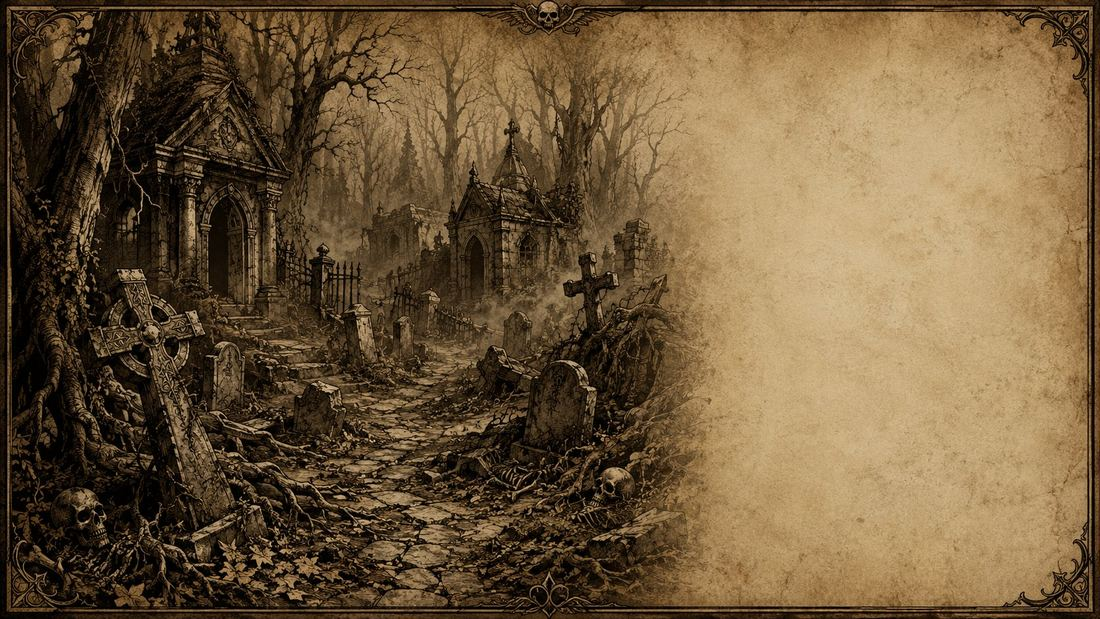
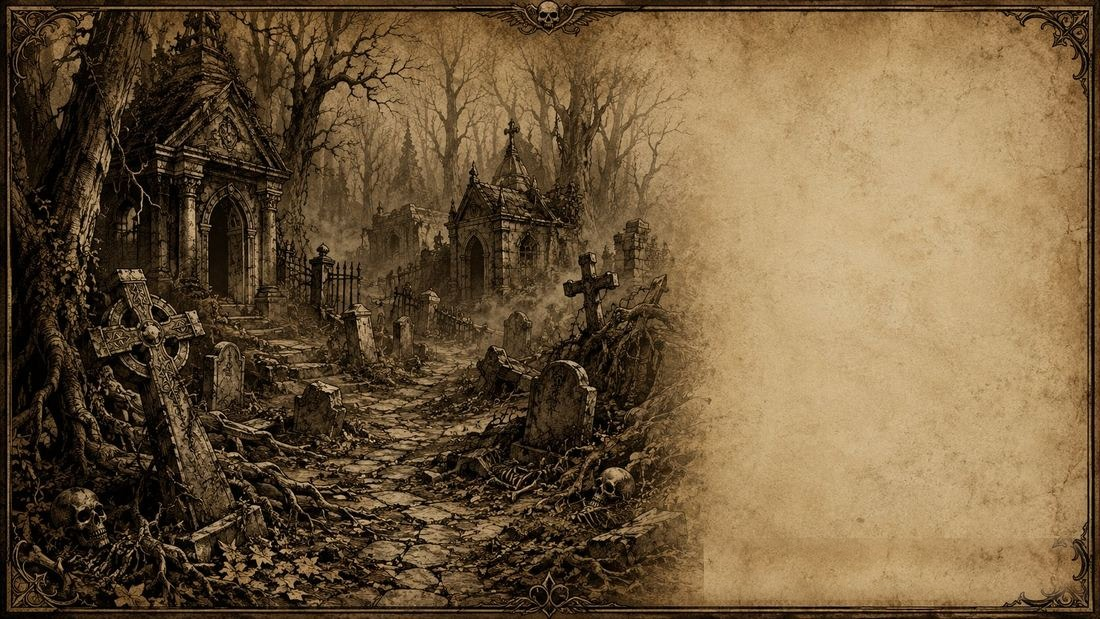
v0.14 — combate real (activación por rango), cámara y limpieza visual
- Fuera de combate: movimiento libre sin PA ni turnos; al detectarte un enemigo, empieza el combate por turnos
- Icono de combate persistente mientras dure la lucha
- Cámara con seguimiento al enemigo durante su turno
- Arreglado el fleco magenta residual del mapa
- Arreglada la transparencia del botón "Saltar turno"
- Vida del héroe más larga
- Cajas de enemigo reorganizadas (nombre más pequeño, fila de estado)
- Marca del evento de ambientación ya invisible en el suelo
- Arreglado el bamboleo del idle del esqueleto
- Arreglado el texto superpuesto en la carta de evento del cementerio

Changed region(s): [[0.6182, 0.8595, 1.0, 0.9822]]

diff --git a/js/ui.js b/js/ui.js
@@ -1,13 +1,13 @@
 // Capa DOM: HUD (con PA), cartas de evento, registro, fin de partida y ajustes.
 // Todo el texto visible pasa por t() (multiidioma). No dibuja en el canvas.
 
-import { state } from './state.js?v=0.13.2';
-import { t } from './i18n.js?v=0.13.2';
-import * as anim from './anim.js?v=0.13.2';
-import { IDLE_NAME } from './anim.js?v=0.13.2';
-import * as audio from './audio.js?v=0.13.2';
-import { VERSION } from './config.js?v=0.13.2';
-import { images, SPRITE_TILE } from './assets.js?v=0.13.2';
+import { state } from './state.js?v=0.14';
+import { t } from './i18n.js?v=0.14';
+import * as anim from './anim.js?v=0.14';
+import { IDLE_NAME } from './anim.js?v=0.14';
+import * as audio from './audio.js?v=0.14';
+import { VERSION } from './config.js?v=0.14';
+import { images, SPRITE_TILE } from './assets.js?v=0.14';
 
 let afterInteract = () => {};
 let restart = () => {};
@@ -29,8 +29,11 @@ export function syncHUD() {
   hpText.textContent = `${Math.max(0, hero.hp)}/${hero.maxHp}`;
   hpText.style.color = pct < 0.25 ? '#e86a5c' : '#fff';
   $('gold').textContent = hero.gold;
-  // Puntos de acción: pips llenos/vacíos.
+  // Puntos de acción: pips llenos/vacíos. Fuera de combate no hay turnos que
+  // saltar ni PA que gastar (movimiento libre), así que se esconden los dos.
   const pips = $('apPips');
+  pips.classList.toggle('hidden', !state.combat.active);
+  $('endTurn').classList.toggle('hidden', !state.combat.active);
   pips.innerHTML = '';
   for (let i = 0; i < hero.apMax; i++) {
     const d = document.createElement('span');
@@ -52,7 +55,7 @@ export function syncFoeRow() {
     const box = document.createElement('div');
     box.className = 'foebox' + (state.targetFoe === foe ? ' selected' : '');
     const name = t('enemy.' + foe.sprite);
-    box.innerHTML = `<div class="buffs"></div><div class="fname">${name}</div><div class="bar foe"><span style="width:${Math.max(0, (1 - foe.hp / foe.maxHp) * 100)}%"></span></div><div class="debuffs"></div>`;
+    box.innerHTML = `<div class="fname">${name}</div><div class="bar foe"><span style="width:${Math.max(0, (1 - foe.hp / foe.maxHp) * 100)}%"></span></div><div class="status"><span class="buffs"></span><span class="debuffs"></span></div>`;
     box.onclick = () => {
       state.targetFoe = state.targetFoe === foe ? null : foe;
       syncFoeRow();
@@ -62,16 +65,14 @@ export function syncFoeRow() {
 }
 
 // --- Iniciativa: aviso de "entra en combate" (espadas, arriba a la derecha,
-// un momento) y barra horizontal con el orden de actuación (retratos sacados
-// del primer fotograma de idle de cada uno). Se llama desde rules.js. ---
-let badgeTimer = null;
+// se queda mientras dure el combate) y barra horizontal con el orden de
+// actuación (retratos sacados del primer fotograma de idle de cada uno).
+// Se llama desde rules.js. ---
 export function showCombatBadge() {
   const el = $('combatBadge');
-  el.classList.remove('show'); void el.offsetWidth;   // reinicia la animación si ya estaba mostrándose
+  el.classList.remove('show'); void el.offsetWidth;   // reinicia la animación de entrada
   el.classList.add('show');
   audio.fx('ui');
-  clearTimeout(badgeTimer);
-  badgeTimer = setTimeout(() => el.classList.remove('show'), 1600);
 }
 
 // Dibuja el primer fotograma de idle de `ref` (héroe o enemigo) en un canvas
@@ -87,6 +88,7 @@ function drawPortrait(canvas, ref) {
 }
 
 export function syncInitiativeUI() {
+  $('combatBadge').classList.toggle('show', state.combat.active);
   const bar = $('initiativeBar');
   if (!state.combat.active || !state.combat.order.length) { bar.classList.remove('show'); bar.innerHTML = ''; return; }
   bar.classList.add('show');

diff --git a/js/render.js b/js/render.js
@@ -7,11 +7,11 @@
 // La altura de cada casilla se pinta con un tinte y, en los escalones, un
 // borde de color: VERDE en el lado alto, ROJO en el lado bajo (estilo Descent).
 
-import { state, elevAt, pathTo, foeAt, blockingTriggerAt, adjacent } from './state.js?v=0.13.2';
-import { isAITurnActive } from './rules.js?v=0.13.2';
-import { TILE, CAMERA_MARGIN, ZOOM_MIN, ZOOM_MAX, ZOOM_DEFAULT, TOKEN_TALL, HERO_TALL, PROP_TALL } from './config.js?v=0.13.2';
-import { images, ATLAS_TILE, SPRITE_TILE } from './assets.js?v=0.13.2';
-import * as anim from './anim.js?v=0.13.2';
+import { state, elevAt, pathTo, foeAt, blockingTriggerAt, adjacent } from './state.js?v=0.14';
+import { isAITurnActive } from './rules.js?v=0.14';
+import { TILE, CAMERA_MARGIN, ZOOM_MIN, ZOOM_MAX, ZOOM_DEFAULT, TOKEN_TALL, HERO_TALL, PROP_TALL } from './config.js?v=0.14';
+import { images, ATLAS_TILE, SPRITE_TILE } from './assets.js?v=0.14';
+import * as anim from './anim.js?v=0.14';
 
 // Algunos artes vienen dibujados mirando a la izquierda de serie (en vez de a
 // la derecha, que es lo que se asume en el resto del código al calcular hacia
@@ -62,6 +62,17 @@ function tweenTo(t, dur = 260) { camTween = { fromX: camera.x, fromY: camera.y, 
 export function centerOnHero(instant = false) {
   const t = heroTarget();
   lastHeroX = state.hero.x; lastHeroY = state.hero.y; userPanning = false;
+  if (instant) { camera.x = t.x; camera.y = t.y; camTween = null; }
+  else tweenTo(t);
+}
+
+// Centra la cámara en cualquier casilla (se usa para seguir al enemigo que
+// le toca actuar durante su turno). No toca userPanning: si el jugador
+// arrastra el mapa durante el turno de un NPC, no se le "pelea" la cámara,
+// pero al empezar el siguiente turno del héroe vuelve a centrarse en él.
+export function centerOnTile(x, y, instant = false) {
+  const vw = VW / zoom, vh = VH / zoom;
+  const t = { x: clampX(x * TILE + TILE/2 - vw/2), y: clampY(y * TILE + TILE/2 - vh/2) };
   if (instant) { camera.x = t.x; camera.y = t.y; camTween = null; }
   else tweenTo(t);
 }
@@ -406,6 +417,7 @@ function draw(ts) {
   // Puntos de evento (lápidas, criptas...) — billboard con arte real si lo hay.
   const glow = reduceMotion ? 0.6 : 0.5 + 0.5 * Math.sin(pulse * 2.6);
   for (const tr of triggers) {
+    if (tr.walkTrigger) continue;   // ambientación pura: invisible, salta solo al pisar/cruzar
     const isChest = tr.type === 'chest';
     if ((tr.used && !isChest) || !state.explored[tr.y][tr.x]) continue;
     if (tr.type === 'trap' && !tr.revealed) continue;   // invisible hasta que se descubre

diff --git a/css/styles.css b/css/styles.css
@@ -21,9 +21,9 @@ body{
   display:flex; flex-direction:column; gap:6px; width:max-content; }
 .hudrow{ display:flex; gap:8px; align-items:stretch; padding:8px 10px;
   background:rgba(26,30,39,.82); border:1px solid var(--steel); border-radius:6px; backdrop-filter:blur(3px); cursor:pointer; }
-.hud .who{ display:flex; flex-direction:column; justify-content:center; gap:4px; min-width:110px; }
+.hud .who{ display:flex; flex-direction:column; justify-content:center; gap:4px; min-width:170px; }
 .bar{ height:9px; border-radius:2px; background:#000; overflow:hidden; border:1px solid #000; position:relative; }
-.bar.hero{ height:26px; background:#000 url(../assets/ui/bar_hp_hero.png) center/100% 100% no-repeat; border:none; }
+.bar.hero{ height:30px; background:#000 url(../assets/ui/bar_hp_hero.png) center/100% 100% no-repeat; border:none; }
 .bar.foe { background:#000 url(../assets/ui/bar_hp_foe.png) center/100% 100% no-repeat; border:none; }
 .bar > span{ display:block; height:100%; transition:width .25s ease; }
 /* La barra siempre muestra el arte completo (cuero+metal+relleno rojo); lo que
@@ -53,8 +53,8 @@ body{
    (izquierda/derecha), así que el remate nunca se deforma, mires donde mires.
    El centro se queda como placa lisa (el texto no necesita más adorno ahí). */
 .skipturn{ position:relative; width:100%; color:var(--bone);
-  background:linear-gradient(rgba(9,10,14,.35),rgba(9,10,14,.35));
-  border:1px solid rgba(70,55,30,.8); border-radius:6px; backdrop-filter:blur(3px);
+  background:linear-gradient(#2a2114,#1a150c);
+  border:1px solid rgba(70,55,30,.9); border-radius:6px;
   font:inherit; font-size:12.5px; letter-spacing:.04em; padding:8px 46px; cursor:pointer; }
 .skipturn::before, .skipturn::after{ content:''; position:absolute; top:1px; bottom:1px; width:38px;
   background-image:url(../assets/ui/skipturn_bar.png); background-repeat:no-repeat; background-size:auto 100%; }
@@ -72,12 +72,13 @@ body{
 .foebox.selected{ border-color:var(--ember); box-shadow:0 0 0 1px var(--ember); }
 .foebox .mark{ font-size:11px; text-align:center; color:var(--bone-dim); line-height:1; }
 .foebox.selected .mark{ color:var(--ember); }
-.foebox .fname{ font-size:10px; text-align:center; color:var(--bone-dim); line-height:1.15;
+.foebox .fname{ font-size:8px; text-align:center; color:var(--bone-dim); line-height:1.15;
   white-space:nowrap; overflow:hidden; text-overflow:ellipsis; }
 .foebox.selected .fname{ color:var(--ember); }
-/* Fila reservada para iconos de buffo (encima de la vida) y debuffo (debajo).
-   Vacías de momento; en cuanto haya iconos, se rellenan sin tocar el layout. */
-.foebox .buffs, .foebox .debuffs{ display:flex; gap:2px; justify-content:center; min-height:10px; }
+/* Fila de estado (buffos y debuffos juntos), debajo de la vida. Vacía de
+   momento; en cuanto haya iconos, se rellenan sin tocar el layout. */
+.foebox .status{ display:flex; gap:4px; justify-content:center; min-height:10px; }
+.foebox .buffs, .foebox .debuffs{ display:flex; gap:2px; }
 .foebox .bar.foe{ height:11px; }
 
 /* --- Modo "reposicionar interfaz": cada bloque se tiñe de verde y se puede
@@ -92,6 +93,10 @@ body.layout-edit .layoutApplyBtn{ display:block; }
 .skipturn:active{ transform:translateY(1px); }
 
 .topright{ top:max(10px,env(safe-area-inset-top)); right:10px; transform:translate(var(--dragX,0px),var(--dragY,0px)) scale(var(--ui)); transform-origin:top right; display:flex; gap:8px; }
+
+/* Fuera de combate no hay turnos que saltar ni PA que gastar (movimiento
+   libre); estos dos solo aparecen en cuanto se activa el combate. */
+.ap.hidden, .skipturn.hidden{ display:none; }
 
 /* Aviso de "entra en combate": aparece un momento arriba a la derecha, sobre
    el botón de reiniciar, y se desvanece solo. */

diff --git a/js/main.js b/js/main.js
@@ -1,15 +1,15 @@
 // Punto de entrada. Carga idioma y datos, cablea módulos y arranca el bucle.
 
-import { state, initGame } from './state.js?v=0.13.2';
-import { initRenderer, startLoop, centerOnHero, toggleGrid, isGridOn } from './render.js?v=0.13.2';
-import { onTapTile, bindDescend, startHeroTurn, endHeroTurn, afterInteract, attemptDisarm, isAITurnActive } from './rules.js?v=0.13.2';
-import { syncHUD, log, hideVeil, bindAfterInteract, bindRestart, bindAttemptDisarm, applyStaticText } from './ui.js?v=0.13.2';
-import { loadAssets } from './assets.js?v=0.13.2';
-import { initialLang, loadLang, onLangChange, getLang, t } from './i18n.js?v=0.13.2';
-import * as anim from './anim.js?v=0.13.2';
-import * as audio from './audio.js?v=0.13.2';
-import { VERSION } from './config.js?v=0.13.2';
-import { assemble } from './mapgen.js?v=0.13.2';
+import { state, initGame } from './state.js?v=0.14';
+import { initRenderer, startLoop, centerOnHero, toggleGrid, isGridOn } from './render.js?v=0.14';
+import { onTapTile, bindDescend, startHeroTurn, endHeroTurn, afterInteract, attemptDisarm, isAITurnActive } from './rules.js?v=0.14';
+import { syncHUD, log, hideVeil, bindAfterInteract, bindRestart, bindAttemptDisarm, applyStaticText } from './ui.js?v=0.14';
+import { loadAssets } from './assets.js?v=0.14';
+import { initialLang, loadLang, onLangChange, getLang, t } from './i18n.js?v=0.14';
+import * as anim from './anim.js?v=0.14';
+import * as audio from './audio.js?v=0.14';
+import { VERSION } from './config.js?v=0.14';
+import { assemble } from './mapgen.js?v=0.14';
 
 // El ensamblador de losetas (mapgen.js) sigue disponible para niveles ALEATORIOS
 // futuros; esta función queda de reserva pero no se usa por ahora, ya que el

diff --git a/js/rules.js b/js/rules.js
@@ -1,13 +1,14 @@
 // Reglas del juego: economía de Puntos de Acción (PA), interacción a distancia
 // y adyacente, trampas, niebla y salida de nivel. Agnóstico del dibujo.
 
-import { state, walkable, adjacent, distTo, isVisible, recomputeFog, computeReach, pathTo, reachCost, blockingTriggerAt, trapAt, walkTriggerAt, stepNeighbors, foeAt, livingFoes, losClear } from './state.js?v=0.13.2';
-import { openEvent, openTrapCard, openStoryCard, syncHUD, syncInitiativeUI, showCombatBadge, log, gameOver } from './ui.js?v=0.13.2';
-import { t } from './i18n.js?v=0.13.2';
-import { MOVE_COST, ATTACK_COST, INITIATIVE_BASE, INITIATIVE_DIE, TURN_DELAY } from './config.js?v=0.13.2';
-import * as anim from './anim.js?v=0.13.2';
-import { ANIM_CLIPS } from './anim.js?v=0.13.2';
-import * as audio from './audio.js?v=0.13.2';
+import { state, walkable, adjacent, distTo, isVisible, recomputeFog, computeReach, pathTo, reachCost, blockingTriggerAt, trapAt, walkTriggerAt, stepNeighbors, foeAt, livingFoes, losClear } from './state.js?v=0.14';
+import { openEvent, openTrapCard, openStoryCard, syncHUD, syncInitiativeUI, showCombatBadge, log, gameOver } from './ui.js?v=0.14';
+import { t } from './i18n.js?v=0.14';
+import { MOVE_COST, ATTACK_COST, INITIATIVE_BASE, INITIATIVE_DIE, TURN_DELAY } from './config.js?v=0.14';
+import * as anim from './anim.js?v=0.14';
+import { ANIM_CLIPS } from './anim.js?v=0.14';
+import * as audio from './audio.js?v=0.14';
+import { centerOnTile } from './render.js?v=0.14';
 
 const sign = (n) => Math.sign(n);
 
@@ -219,7 +220,9 @@ export function onTapTile(gx, gy) {
       audio.fx('kill'); target.alive = false;
       if (state.targetFoe === target) state.targetFoe = null;
       if (ANIM_CLIPS[target.sprite]) { anim.die(target.anim); target.deathPlaying = true; }
+      checkCombatEnd();
       syncHUD();
+      syncInitiativeUI();
       if (livingFoes().length === 0) return gameOver('win');
     } else {
       audio.fx('attack'); syncHUD();
@@ -323,6 +326,7 @@ export async function endHeroTurn() {
     syncInitiativeUI();
     await sleep(TURN_DELAY);   // pausa al terminar el turno del héroe
     await runFoeQueue();
+    if (state.combat.active) centerOnTile(state.hero.x, state.hero.y);
   }
   if (!state.busy) startHeroTurn();   // si busy=true, hay una carta de fin de partida abierta
 }
@@ -346,9 +350,11 @@ async function runFoeQueue() {
       const foe = entry.ref;
       state.combat.idx++;
       if (!foe.alive) continue;
+      centerOnTile(foe.x, foe.y);
       syncInitiativeUI();
       const heroDied = await runSingleFoeTurn(foe);
       checkCombatEnd();
+      syncHUD();
       if (heroDied || !state.combat.active) return;
       await sleep(TURN_DELAY);   // pausa al terminar el turno de este NPC
     }

diff --git a/index.html b/index.html
@@ -14,7 +14,7 @@
 <meta http-equiv="Pragma" content="no-cache">
 <meta http-equiv="Expires" content="0">
 <title>Cripta</title>
-<link rel="stylesheet" href="./css/styles.css?v=0.13.2">
+<link rel="stylesheet" href="./css/styles.css?v=0.14">
 </head>
 <body>
 <div id="game">
@@ -100,6 +100,6 @@
   </div>
 </div>
 
-<script type="module" src="./js/main.js?v=0.13.2"></script>
+<script type="module" src="./js/main.js?v=0.14"></script>
 </body>
 </html>

diff --git a/js/anim.js b/js/anim.js
@@ -6,7 +6,7 @@
 //     (paz/combate) que cambian solas según haya un enemigo cerca, con una transición.
 // Además: sacudida al recibir daño y números flotantes (daño/curación).
 
-import { TILE } from './config.js?v=0.13.2';
+import { TILE } from './config.js?v=0.14';
 
 const D_MOVE = 170;
 const D_ATTACK_LEGACY = 220;

diff --git a/js/assets.js b/js/assets.js
@@ -6,7 +6,7 @@
 // Qué claves tienen animaciones de verdad se define en ANIM_CLIPS (anim.js);
 // aquí solo hace falta indicar dónde está cada hoja.
 
-import { VERSION } from './config.js?v=0.13.2';
+import { VERSION } from './config.js?v=0.14';
 
 export const ATLAS_TILE = 128;  // px por celda en el tileset fuente (dungeon.png)
 export const SPRITE_TILE = 128; // px por fotograma en las hojas de sprites

diff --git a/js/audio.js b/js/audio.js
@@ -2,7 +2,7 @@
 // usan un pitido suave sintetizado. De fondo: ambiente de bosque en bucle + ulular
 // de búho de vez en cuando. En móvil el sonido solo arranca tras tocar -> unlock().
 
-import { VERSION } from './config.js?v=0.13.2';
+import { VERSION } from './config.js?v=0.14';
 
 let ctx, master, fxGain, ambGain;
 let ambSource = null, owlTimer = null;

diff --git a/js/config.js b/js/config.js
@@ -38,4 +38,4 @@ export const INITIATIVE_BASE = {
 export const TURN_DELAY = 1000;  // ms de pausa entre el fin de un turno y el siguiente (héroe y NPCs)
 
 // --- versión (fuente única; también se usa para el cache-busting de assets) ---
-export const VERSION = '0.13.2';
+export const VERSION = '0.14';

diff --git a/js/i18n.js b/js/i18n.js
@@ -2,7 +2,7 @@
 // t('log.hitFoe', { dmg: 6 })  ->  "Golpeas al acechador. −6"
 // Ningún texto visible debe estar en el código: todo pasa por aquí.
 
-import { VERSION } from './config.js?v=0.13.2';
+import { VERSION } from './config.js?v=0.14';
 
 let dict = {};
 let current = 'es';

diff --git a/js/state.js b/js/state.js
@@ -2,7 +2,7 @@
 // Incluye niebla de guerra (explored/visible) y el alcance de movimiento
 // ligado a los Puntos de Acción (PA) restantes del héroe.
 
-import { SIGHT, SIGHT_DIM, AP_MAX, CLIMB_COST, MAX_CLIMB, DIFFICULT_EXTRA } from './config.js?v=0.13.2';
+import { SIGHT, SIGHT_DIM, AP_MAX, CLIMB_COST, MAX_CLIMB, DIFFICULT_EXTRA } from './config.js?v=0.14';
 
 export const state = {
   cols: 0, rows: 0,